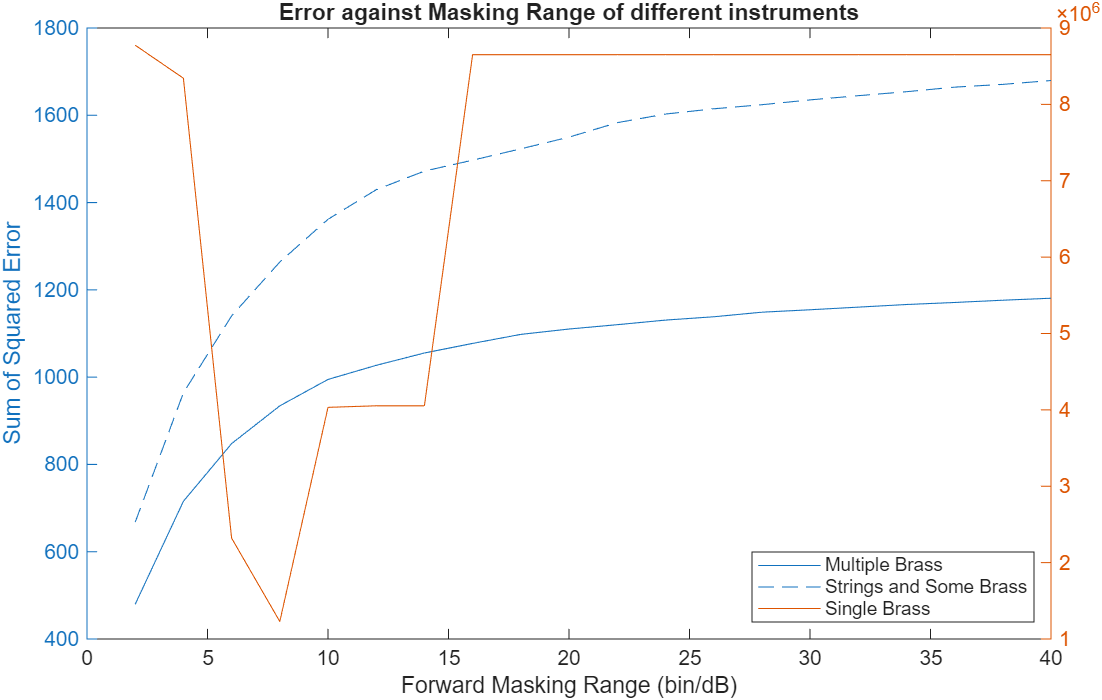
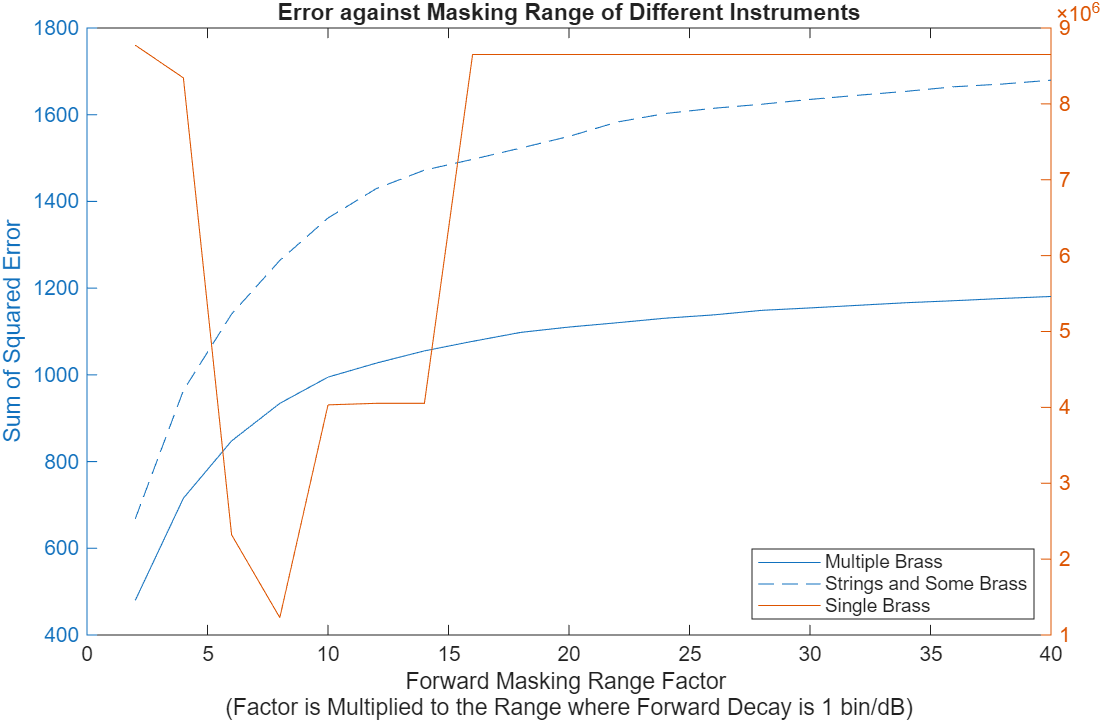
Improve plot label
- Changes plot xlabel to accurately describe the x axis

diff --git a/main.m b/main.m
@@ -188,8 +188,8 @@ yyaxis left
 plot(2:2:40, abs(errorsMD2),'DisplayName', 'Multiple Brass')
 hold on
 plot(2:2:40, abs(errorsMD3),'DisplayName', 'Strings and Some Brass')
-title("Error against Masking Range of different instruments")
-xlabel("Forward Masking Range (bin/dB)")
+title("Error against Masking Range of Different Instruments")
+xlabel(sprintf("Forward Masking Range Factor \n(Factor is Multiplied to the Range where Forward Decay is 1 bin/dB)"))
 ylabel("Sum of Squared Error")
 legend('Location','southeast')
 hold off
